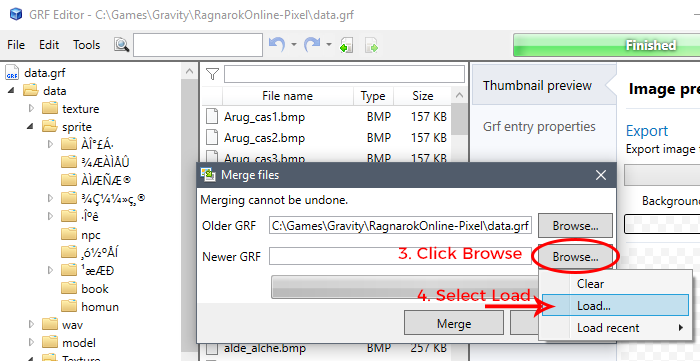
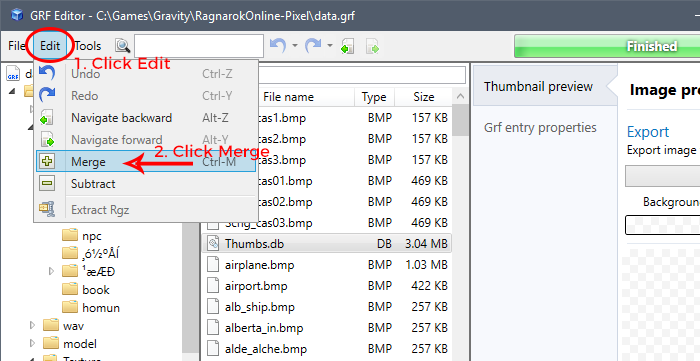
Updated resource files

diff --git a/index.html b/index.html
@@ -179,7 +179,7 @@
 						<div class="column is-6 is-offset-3">
 							<p class="is-size-3">3. Open data.grf using GRF Editor</p>
 							<p class="is-size-6">
-								  <img src="http://i.imgur.com/RGaKNQu.png" />
+								  <img src="http://i.imgur.com/E6A5S6z.png" />
 							</p>
 						</div>
 					</div>
